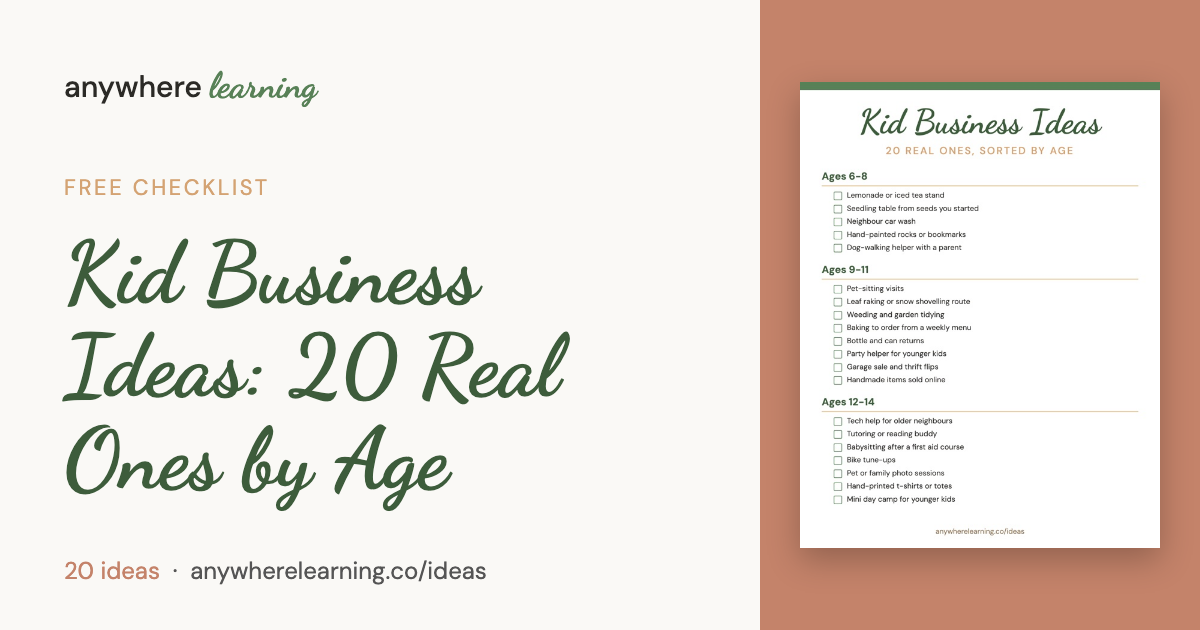
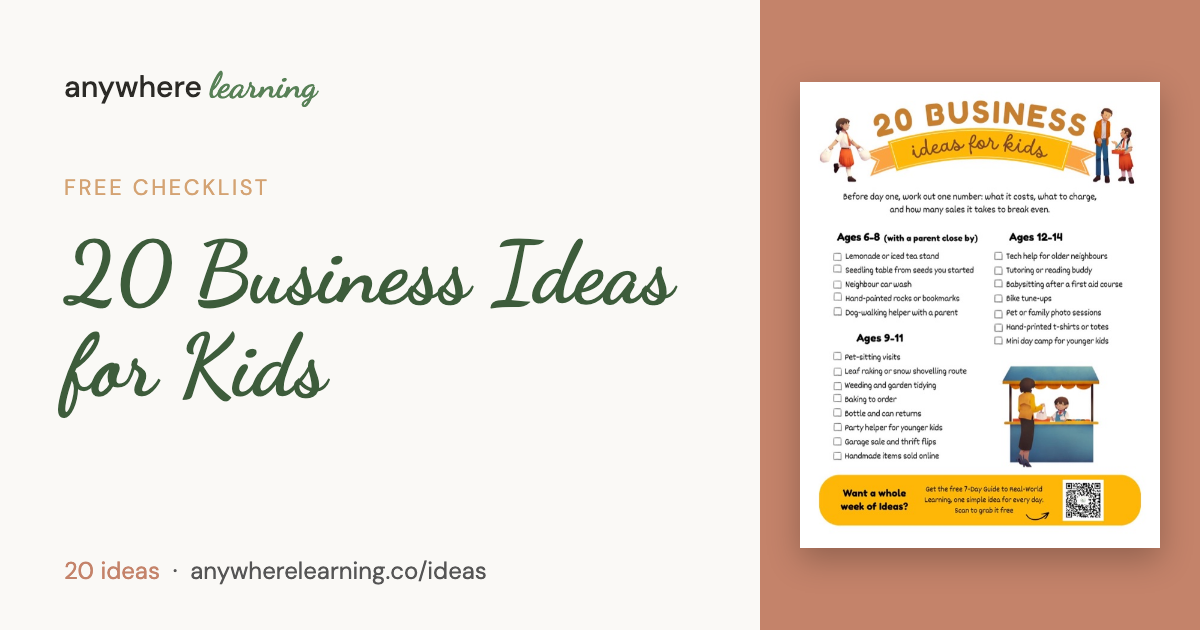
Ideas: Kid Business Ideas printable live (Canva PDFs on Blob)
Registers the color and B&W PDFs, swaps the interim cover and share image
for the real printable, meta/FAQ now say PDF by email. Shark Tank and
Community Impact now offer this checklist. /ideas counts 16 lists, 340+.

Changed region(s): [[0.6475, 0.1206, 0.9867, 0.8444], [0.0308, 0.3619, 0.555, 0.6635], [0.0308, 0.6635, 0.37, 0.8143]]

diff --git a/lib/idea-list-seo.ts b/lib/idea-list-seo.ts
@@ -266,7 +266,7 @@ export const IDEA_LIST_SEO: Record<string, IdeaListSeo> = {
   'kid-business-ideas': {
     seoTitle: 'Kid Business Ideas Checklist: 20 Real Ones by Age',
     metaDescription:
-      '20 kid business ideas for ages 6 to 14, sorted by age, each with the one number to work out before day one. Free to read in full, no signup.',
+      '20 kid business ideas for ages 6 to 14, sorted by age, each with the one number to work out before day one. Free to read, PDF by email.',
     howToUse:
       'Let your kid pick the idea, then sit down together with the number next to it before anything gets bought or made. What does one cup, one walk, or one tune-up cost you, and what will people pay? Most first businesses change after that conversation, and that is the lesson. You stay close by for the safety and the money handling; your kid does the thinking, the asking, and the counting.',
     faqs: [
@@ -286,9 +286,9 @@ export const IDEA_LIST_SEO: Record<string, IdeaListSeo> = {
           'A kid business teaches cost, price, profit, and break-even: what one item costs to make, what to charge, and how many sales it takes before any money is really theirs. Older kids add hourly rates, fees, and comparing per-job against per-hour pricing.',
       },
       {
-        question: 'Is the kid business ideas checklist free?',
+        question: 'Is the kid business ideas checklist free to download?',
         answer:
-          'The kid business ideas checklist is free to read in full on this page. Pick one idea, work out its number together, and start small this month.',
+          'The kid business ideas checklist is free to read in full on this page. Enter your email and we send the printable PDF, in color or black and white, to keep on the fridge while your kid picks one.',
       },
     ],
   },

diff --git a/app/(store)/ideas/page.tsx b/app/(store)/ideas/page.tsx
@@ -7,12 +7,12 @@ export const metadata: Metadata = {
   // Absolute so the keyword-led tag isn't pushed past the SERP cutoff
   title: { absolute: 'Activity Ideas for Kids: 15 Free Printable Checklists' },
   description:
-    '320+ activity ideas for kids in 15 free printable checklists: nature, STEM, life skills, cooking, travel, and more. Free to read in full, PDFs sent by email.',
+    '340+ activity ideas for kids in 16 free printable checklists: nature, STEM, life skills, cooking, travel, and more. Free to read in full, PDFs sent by email.',
   alternates: { canonical: 'https://anywherelearning.co/ideas' },
   openGraph: {
     title: 'Activity Ideas for Kids: 15 Free Printable Checklists',
     description:
-      '320+ activity ideas for kids in 15 free printable checklists. Browse by category: nature, kitchen, life skills, STEM, creative, travel, AI, and mindset.',
+      '340+ activity ideas for kids in 16 free printable checklists. Browse by category: nature, kitchen, life skills, STEM, creative, travel, AI, and mindset.',
     url: 'https://anywherelearning.co/ideas',
     type: 'website',
     images: [

diff --git a/lib/lead-magnets.ts b/lib/lead-magnets.ts
@@ -113,7 +113,10 @@ const POST_OVERRIDES: Record<string, string | 'capable-kid' | 'free-guide'> = {
   'teach-kids-about-money': 'life-skills-ideas',
   'allowance-vs-commission': 'life-skills-ideas',
   'financial-literacy-for-kids-by-age': 'life-skills-ideas',
+  // shark-tank-for-kids is the kid-business-ideas list's own blogSlug, so it
+  // gets that list directly; this override only applies if that link is removed.
   'shark-tank-for-kids': 'capable-kid',
+  'community-impact-projects-for-kids': 'kid-business-ideas',
   'project-based-learning-homeschool': 'stem-ideas',
   'kids-making-videos-learning': 'creative-ideas',
   'real-world-writing-for-kids': 'creative-ideas',

diff --git a/lib/idea-list-pdfs.ts b/lib/idea-list-pdfs.ts
@@ -23,6 +23,7 @@ const SLUG_TO_FILENAME: Record<string, string> = {
   'travel-ideas': 'List - 22 Travel & Worldschool Ideas for Kids',
   'ai-digital-ideas': 'List - 18 AI & Digital Literacy Ideas for Kids',
   'resilience-ideas': 'List - 12 Resilience-Building  Activities',
+  'kid-business-ideas': 'List - 20 Business Ideas For Kids',
 }
 
 function blobUrl(filename: string): string {
